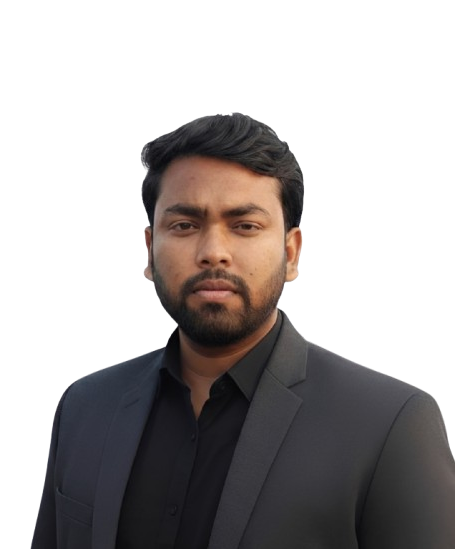
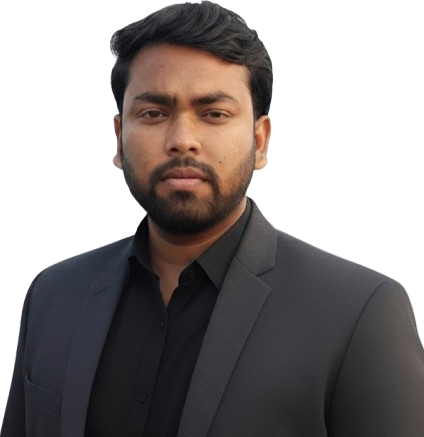
update code

diff --git a/public/assets/web/css/style.css b/public/assets/web/css/style.css
@@ -118,7 +118,6 @@ a:focus, button:focus, .btn:focus, .btn:active:focus {
 /* Hero */
 .hero-section {
     background: var(--secondary);
-    padding: 80px 0;
 }
 
 .hero-title {
@@ -133,7 +132,9 @@ a:focus, button:focus, .btn:focus, .btn:active:focus {
 }
 
 .hero-img-area {
-    background-image: url('/assets/images/hero-blob.png');
+    background-image: url('/assets/images/blur.png');
+    width: 450px;
+    height: 450px;
     background-size: contain;
     background-repeat: no-repeat;
     background-position: center;
@@ -141,14 +142,13 @@ a:focus, button:focus, .btn:focus, .btn:active:focus {
     align-items: center;
     justify-content: center;
     position: relative;
+    border-radius: 50%;
 }
 
 .hero-img {
-    max-height: 400px;
-    margin-bottom: 112px;
-    border-bottom-left-radius: 50px;
-    border-bottom-right-radius: 100px;
+    height: 400px;
     object-fit: cover;
+    border-bottom: 2px solid var(--primary);
 }
 
 /* Section Title */

diff --git a/resources/views/web/index.blade.php b/resources/views/web/index.blade.php
@@ -5,10 +5,9 @@
 @endsection
 
 @section('main_content')
-<section class="hero-section">
+<section class="hero-section py-5">
     <div class="container">
         <div class="row align-items-center">
-
             <div class="col-lg-6">
                 <small class="hero-subtitle fs-6 fw-bold">heei</small>
                 <h1 class="hero-title">
